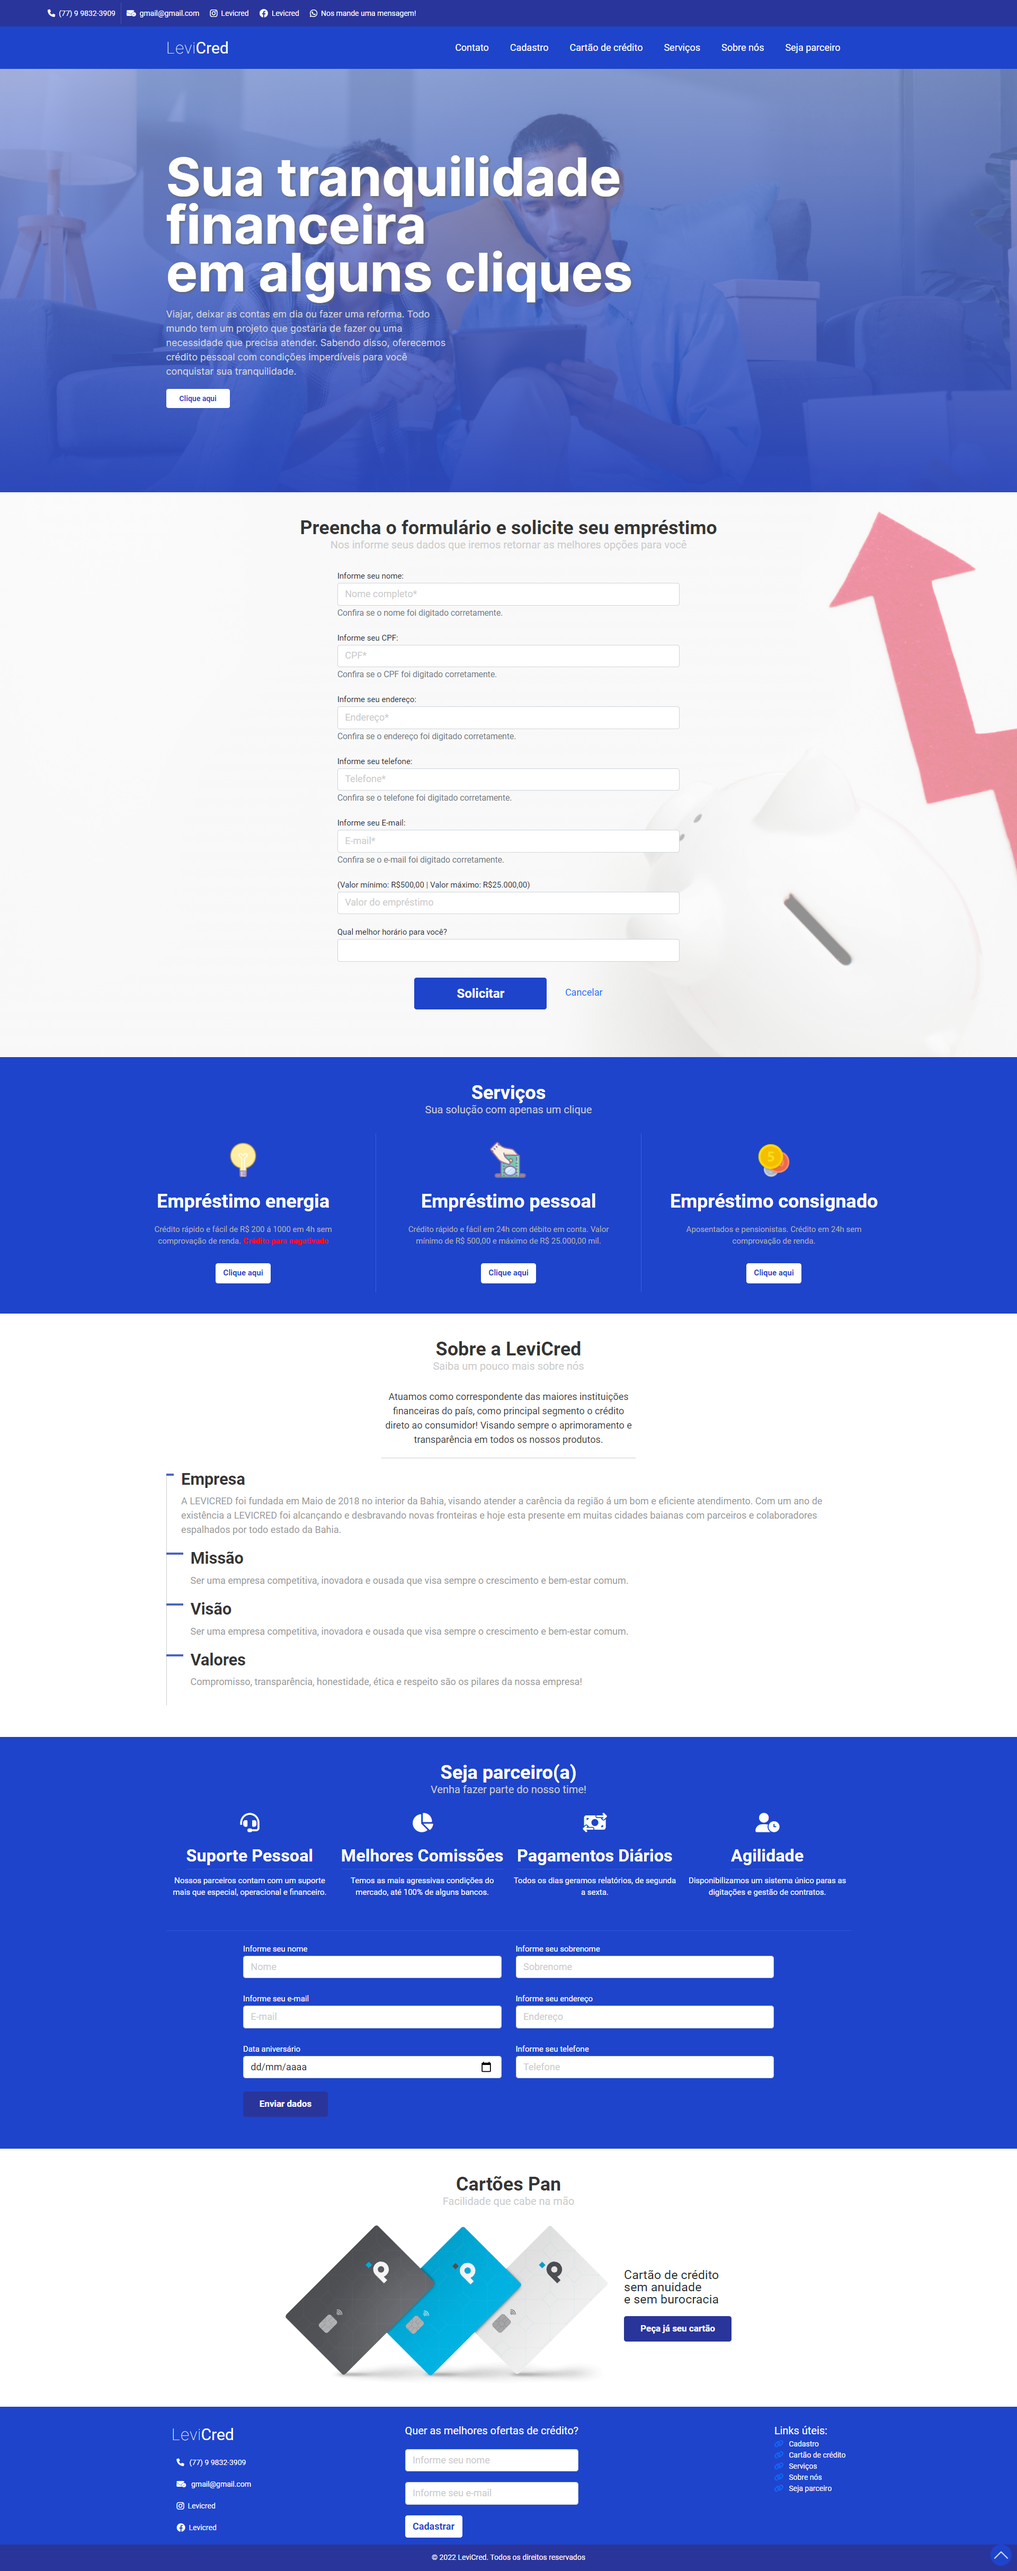
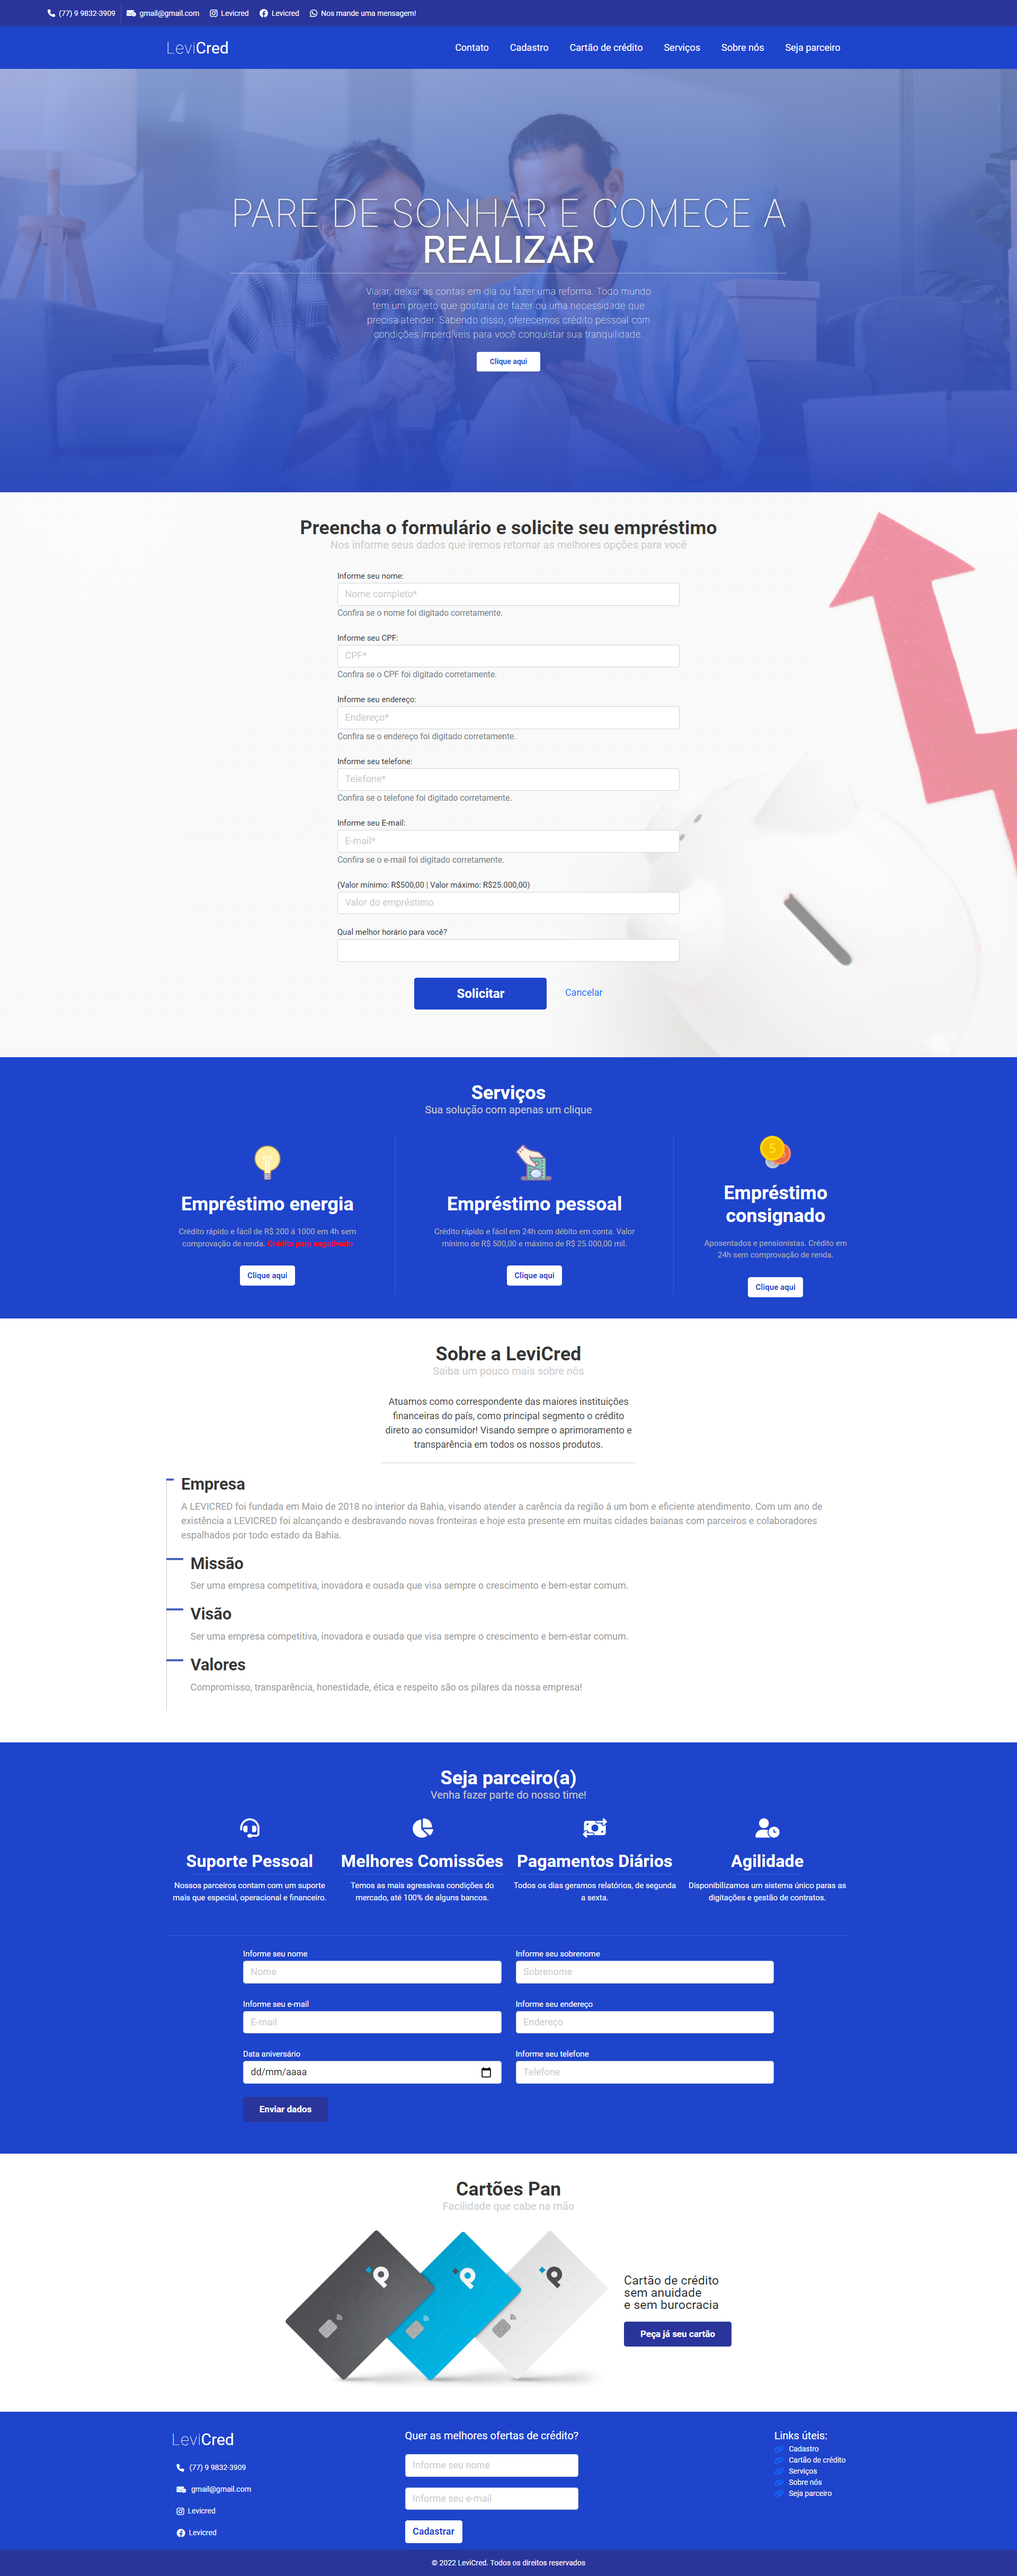
Finalizado responsividade

diff --git a/index.html b/index.html
@@ -291,28 +291,24 @@
             </div>
             <div class="partnerArea container">
                 <div class="partnerArea--items">
-                    <div class="partnerArea--item" data-aos="zoom-in-right" data-aos-delay="500"
-                        data-aos-duration="1100">
+                    <div class="partnerArea--item" data-aos="fade-up" data-aos-delay="500" data-aos-duration="1100">
                         <i class="fa-solid fa-headset"></i>
                         <div class="item--title">Suporte Pessoal</div>
                         <div class="item--description">Nossos parceiros contam com um suporte mais que especial,
                             operacional e financeiro.</div>
                     </div>
-                    <div class="partnerArea--item" data-aos="zoom-in-left" data-aos-delay="500"
-                        data-aos-duration="1100">
+                    <div class="partnerArea--item" data-aos="fade-up" data-aos-delay="500" data-aos-duration="1100">
                         <i class="fa-solid fa-chart-pie"></i>
                         <div class="item--title">Melhores Comissões</div>
                         <div class="item--description">Temos as mais agressivas condições do mercado, até 100% de alguns
                             bancos.</div>
                     </div>
-                    <div class="partnerArea--item" data-aos="zoom-in-right" data-aos-delay="500"
-                        data-aos-duration="1100">
+                    <div class="partnerArea--item" data-aos="fade-up" data-aos-delay="500" data-aos-duration="1100">
                         <i class="fa-solid fa-money-bill-transfer"></i>
                         <div class="item--title">Pagamentos Diários</div>
                         <div class="item--description">Todos os dias geramos relatórios, de segunda a sexta.</div>
                     </div>
-                    <div class="partnerArea--item" data-aos="zoom-in-left" data-aos-delay="500"
-                        data-aos-duration="1100">
+                    <div class="partnerArea--item" data-aos="fade-up" data-aos-delay="500" data-aos-duration="1100">
                         <i class="fa-solid fa-user-clock"></i>
                         <div class="item--title">Agilidade</div>
                         <div class="item--description">Disponibilizamos um sistema único paras as digitações e gestão de
@@ -368,10 +364,10 @@
                 <div class="subTitle2">Facilidade que cabe na mão</div>
             </div>
             <div class="cardArea container">
-                <div class="cardArea--card" data-aos="fade-down-right" data-aos-delay="500" data-aos-duration="1100">
+                <div class="cardArea--card" data-aos="fade-up" data-aos-delay="500" data-aos-duration="1100">
                     <img src="assets/images/pancard.webp" alt="cartao_pan">
                 </div>
-                <div class="cardArea--descriptions" data-aos="fade-down-left" data-aos-delay="500" data-aos-duration="1100">
+                <div class="cardArea--descriptions" data-aos="fade-up" data-aos-delay="500" data-aos-duration="1100">
                     <div class="cardArea--description">Cartão de crédito<br>sem anuidade<br>e sem burocracia</div>
                     <a href="https://agx.link/fontes-sitelevicred" target="_blank" class="btn">Peça já seu cartão</a>
                 </div>
@@ -379,11 +375,6 @@
         </section>
         <!-- AREA CARTAO CREDITO PAN -->
     </main>
-    <!-- BOTAO PARA SCROLLAR PARA CIMA -->
-    <div onclick="scrollBar()" class="btnTop">
-        <img src="assets/images/seta-para-recolher.png" class="btnTop" alt="Voltar_ao_topo">
-    </div>
-    <!-- BOTAO PARA SCROLLAR PARA CIMA -->
     <!-- FOOTER AREA -->
     <footer>
         <div class="footerArea container">
@@ -506,7 +497,10 @@
             </div>
         </div>
     </div>
-    <!-- MODAL AREA  -->
+    <div onclick="scrollBar()" class="btnTop">
+        <img src="assets/images/seta-para-recolher.png" class="btnTop" alt="Voltar_ao_topo">
+    </div>
+    
     <script src="assets/script/script.js"></script>
     <script src="https://unpkg.com/aos@2.3.1/dist/aos.js"></script>
     <script>

diff --git a/assets/css/style.css b/assets/css/style.css
@@ -772,10 +772,9 @@ label{
 footer{
     background-color: #1E44CB;
     color: #fff;
-    padding: 20px 0;
+    padding: 20px 0 0 0px;
     font-size:14px;
     margin-top: 0px;
-    position: relative;
 }
 
 .footerArea{
@@ -857,10 +856,8 @@ footer .copyright{
     justify-content: center;
     align-items:center;
     width: 100%;
-    height: 50px;
+    height: 30px;
     background-color: #2A359B;
-    position: absolute;
-    bottom: 0;
 }
 /* ----Energy AREA---- */
 #energy{
@@ -974,6 +971,19 @@ footer .copyright{
 
 /* ----- RESPONSIVIDADE ---- */
 
+@media(max-width:1173px){
+    .modal--area {
+        width: 30%;
+        min-width: 410px;
+        height: 322px;
+        background-color: rgb(240, 240, 240);
+        border-radius: 10px;
+        padding: 10px 40px;
+        position: relative;
+        animation: modal .9s;
+    }
+}
+
 @media(max-width: 1024px){
     .cardArea {
         display: flex;
@@ -1012,6 +1022,14 @@ footer .copyright{
 }
 
 @media(max-width: 991px){
+    #navMobile ul a,
+    #contact2{
+        font-size: 24px;
+    }
+    #navMobile li,
+    #contact2{
+        border-bottom: 1px solid rgba(102, 112, 255, 0.24);
+    }
     #navDesktop ul{
         display: none;
     }
@@ -1041,10 +1059,32 @@ footer .copyright{
     footer .copyright {
         position: relative;
     }
+    .formAreaInfos {
+        width: 100%;
+    }
+    .partnerArea--form{
+        padding: 20px 0;
+    }
+    .partnerArea--form form{
+        width: 100%;
+    }
 }
 @media(max-width: 876px){
     .contactArea{
         padding: 5px 10px;
+    }
+    .titleDefault .title2 {
+        color: #353535;
+        font-size: 2rem;
+        font-weight: bold;
+        line-height: 30px;
+        margin-bottom: 20px;
+    }
+    .titleDefault .subTitle2 {
+        font-size: 15px;
+        color: #CCC;
+        line-height: 10px;
+        margin-bottom: 26px;
     }
 }
 @media(max-width: 768px){
@@ -1091,6 +1131,33 @@ footer .copyright{
     }
 }
 
+@media(max-width: 645px){
+    .cardArea--card img{
+        width: 100%;
+    }
+}
+@media(max-width: 599px){
+    .modal--area{
+        width: 100%;
+        min-width: 280px;
+        height: 400px;
+    }
+    .closeModal {
+        position: absolute;
+        top: -6px;
+        right: -9px;
+        cursor: pointer;
+        padding: 10px;
+        border-radius: 50%;
+        background-color: rgb(240, 240, 240);
+        transition: all 0.4s ease;
+    }
+}
+@media(max-width: 433px){
+    .btnTop{
+        display: none;
+    }
+}
 @media(max-width:425px){
     .descriptionArea h1 {
         font-size: 2rem;
@@ -1102,5 +1169,8 @@ footer .copyright{
         color: #fff;
         font-size: 2rem;
         cursor: pointer;
+    }
+    #menuMobile{
+        width: 70%;
     }
 }

diff --git a/assets/script/script.js b/assets/script/script.js
@@ -129,9 +129,9 @@ function scrollBar(){
 
 function controlarBotao(){
     if (window.scrollY === 0){
-        document.querySelector(".btnTop").style.display = 'none'; 
+        document.querySelectorAll(".btnTop").style.display = 'none'; 
     } else{
-        document.querySelector(".btnTop").style.display = 'block';
+        document.querySelectorAll(".btnTop").style.display = 'block';
     }
 }
 
